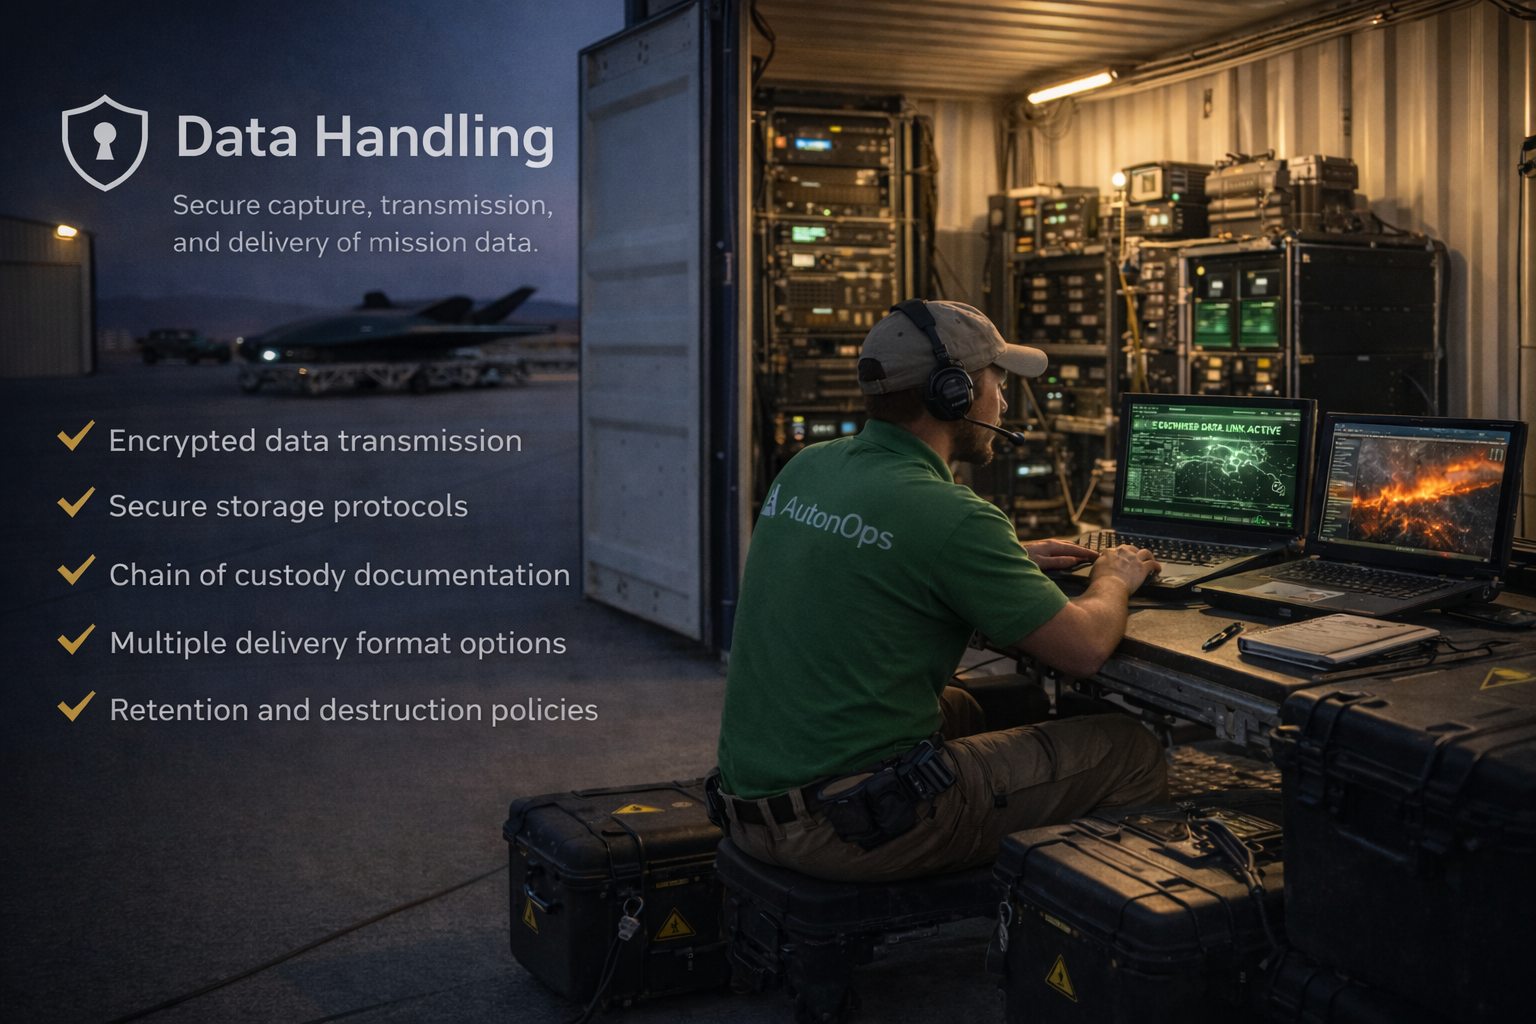
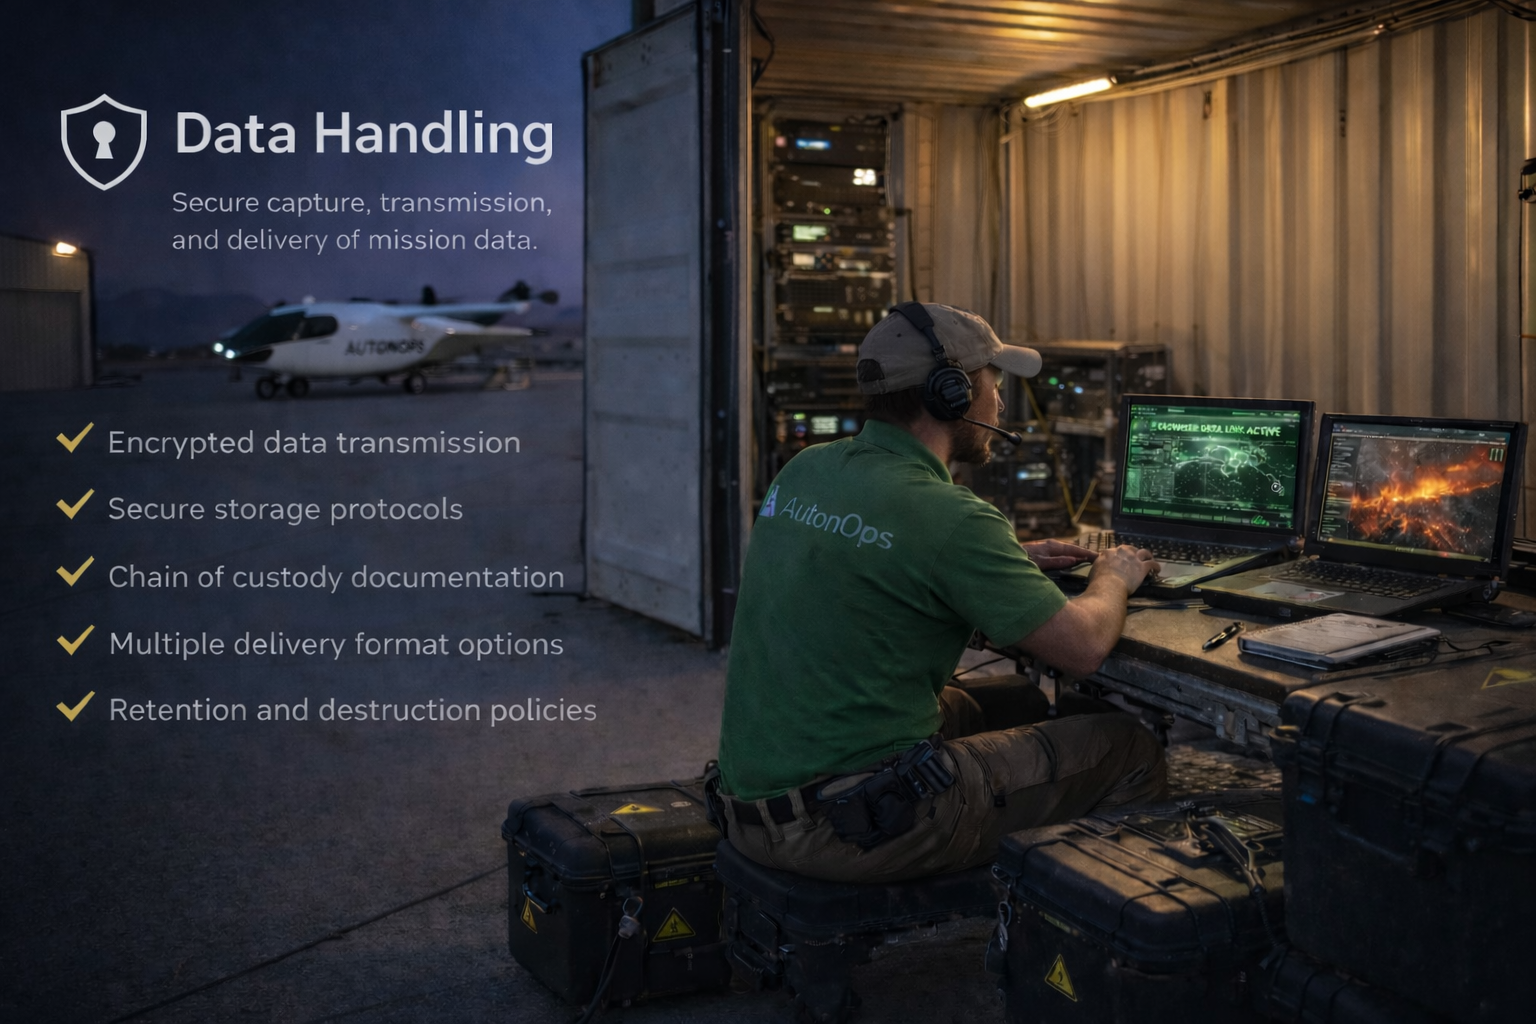
Swap photos across site with new hoverjet images
- Homepage hero: aircraft.jpg → hoverjet.png
- Services header: aircraft-fire.jpg → hoverjet-dropping.png
- Technology aircraft platform: aircraft.jpg → hoverjet.png
- Industries "Why Choose Us": aircraft-fire.jpg → hoverjet-dropping.png
- Re-copied data-handling.png to ensure latest version

🤖 Generated with [Claude Code](https://claude.com/claude-code)

diff --git a/src/app/industries/page.tsx b/src/app/industries/page.tsx
@@ -502,8 +502,8 @@ export default function IndustriesPage() {
             </div>
             <TiltCard className="relative rounded-2xl overflow-hidden" tiltAmount={5}>
               <Image
-                src="/aircraft-fire.jpg"
-                alt="Aircraft performing fire response"
+                src="/hoverjet-dropping.png"
+                alt="AutonOps drone operations"
                 width={600}
                 height={400}
                 className="w-full h-auto"

diff --git a/src/app/technology/page.tsx b/src/app/technology/page.tsx
@@ -384,7 +384,7 @@ export default function TechnologyPage() {
               {/* Aircraft Visual */}
               <div className="relative bg-gradient-to-br from-slate-800 to-slate-900 flex items-center justify-center min-h-[300px]">
                 <Image
-                  src="/aircraft.jpg"
+                  src="/hoverjet.png"
                   alt="AutonOps VTOL Aircraft"
                   fill
                   className="object-cover opacity-90"

diff --git a/src/app/page.tsx b/src/app/page.tsx
@@ -234,7 +234,7 @@ export default function Home() {
               <TiltCard className="relative" tiltAmount={8}>
                 <div className="rounded-2xl overflow-hidden shadow-2xl border border-slate-700/50">
                   <Image
-                    src="/aircraft.jpg"
+                    src="/hoverjet.png"
                     alt="AutonOps VTOL Aircraft"
                     width={600}
                     height={400}

diff --git a/src/app/services/page.tsx b/src/app/services/page.tsx
@@ -153,7 +153,7 @@ export default function ServicesPage() {
       <section className="relative bg-slate-900 text-white py-20 sm:py-28 overflow-hidden">
         <div className="absolute inset-0">
           <Image
-            src="/aircraft-fire.jpg"
+            src="/hoverjet-dropping.png"
             alt="Aircraft performing fire suppression"
             fill
             className="object-cover opacity-30"
